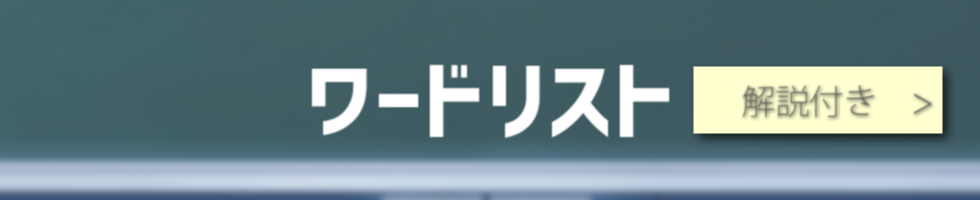
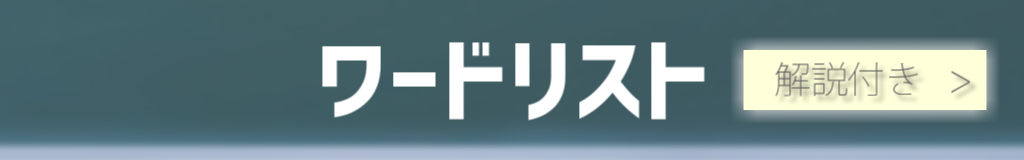
サイズ変更

diff --git a/css/style.css b/css/style.css
@@ -143,8 +143,8 @@ a:hover {
 /*ワードリスト*/
 
 .word_list {
-  width: 980px;
-  height: 200px;
+  width: 1024px;
+  height: 160px;
   margin: 0 auto;
   margin-top: 10px;
   background-image: url("../images/word_list.png");
